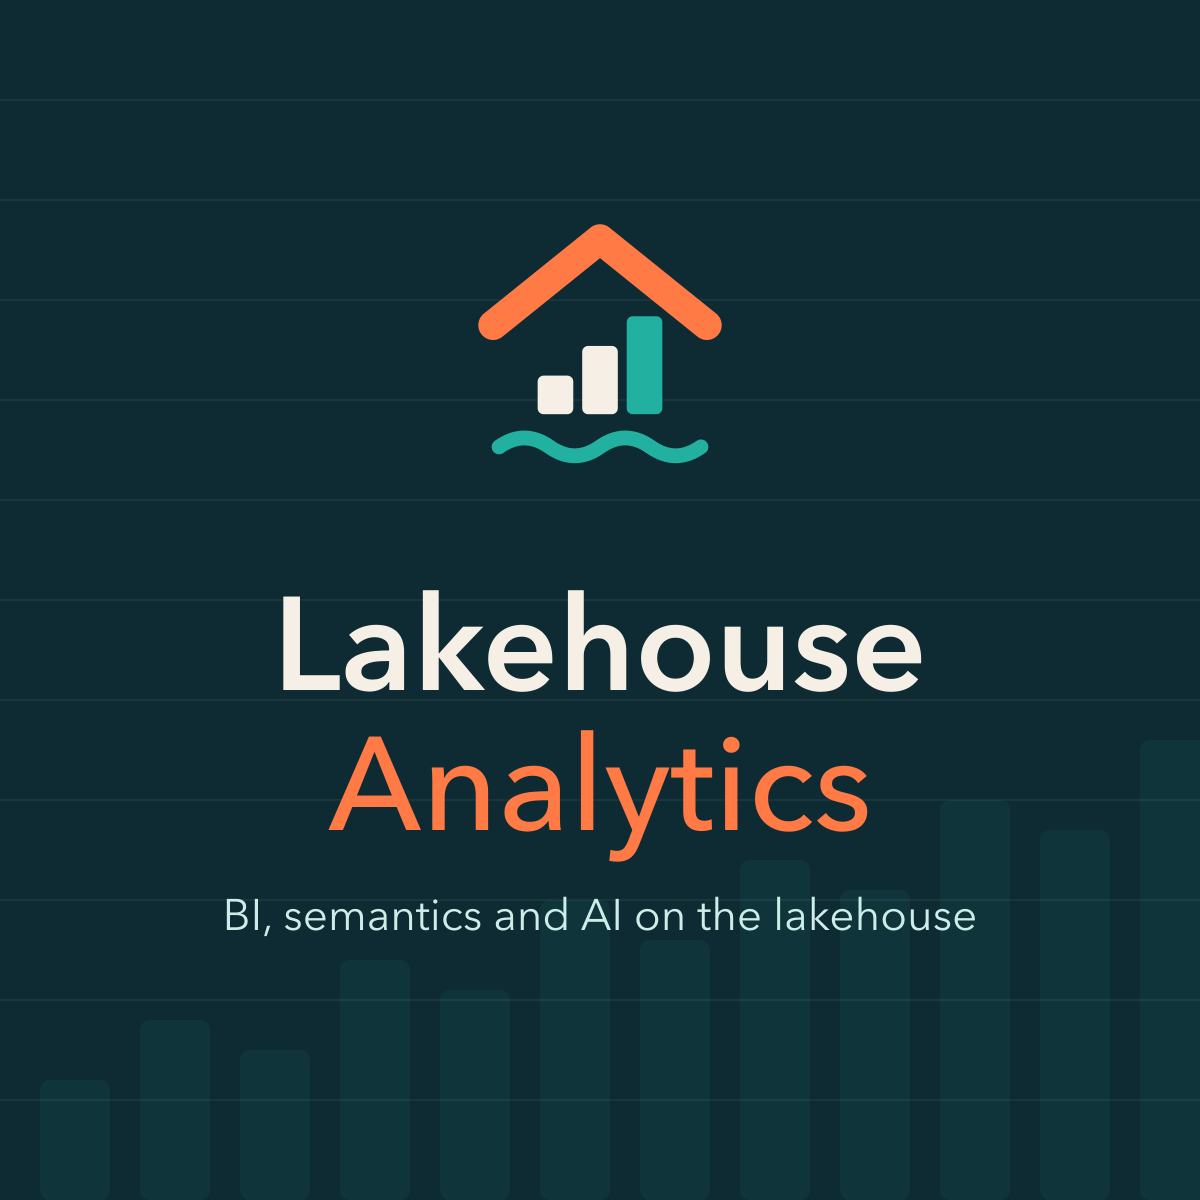
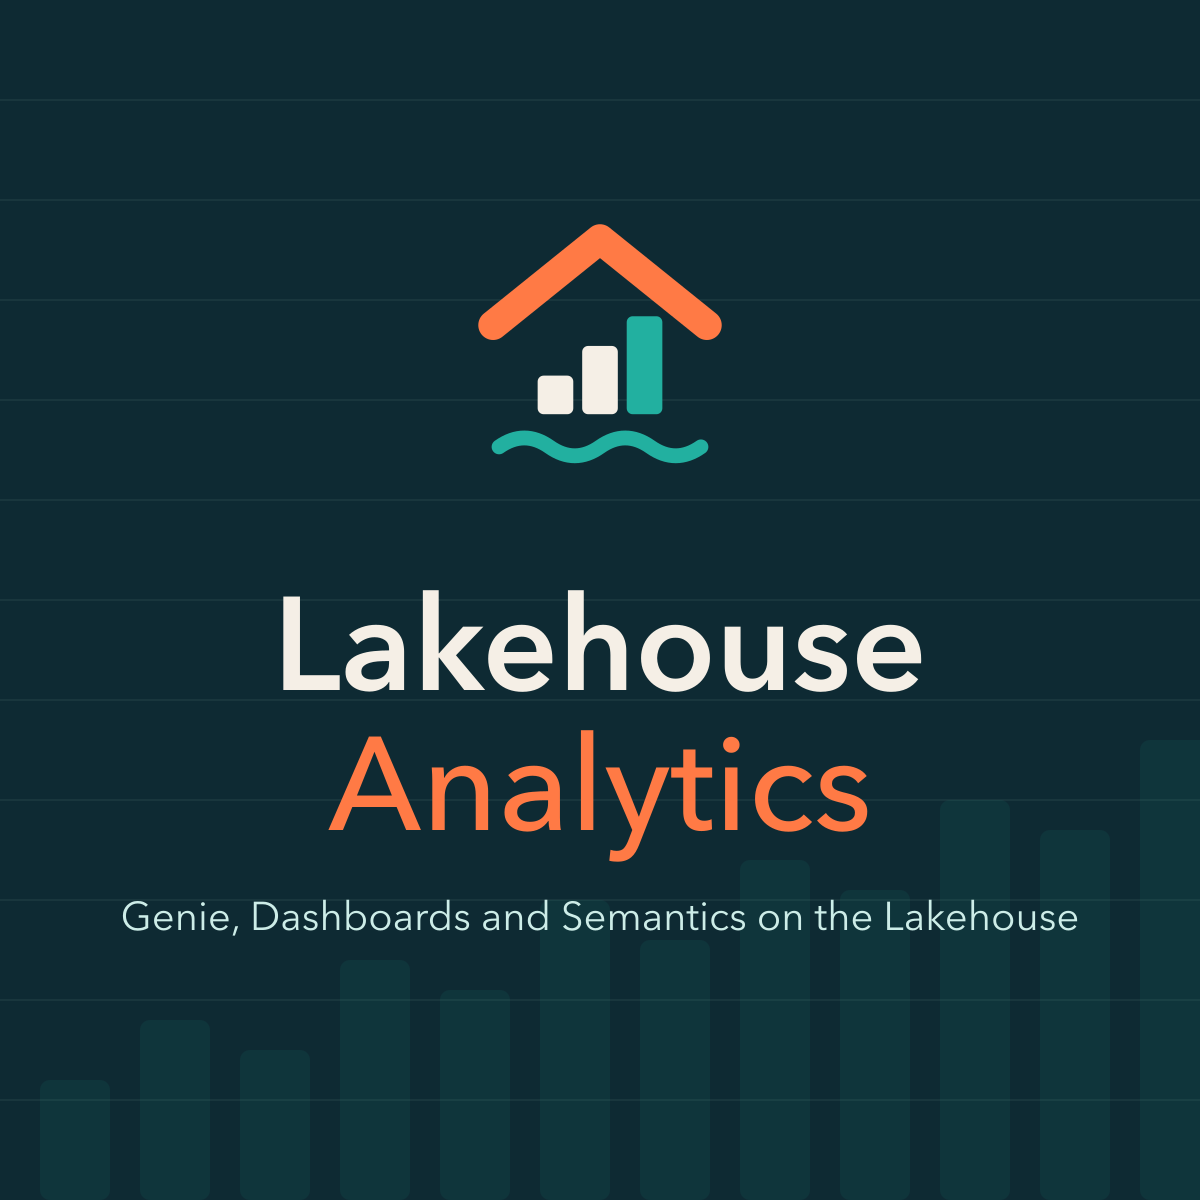
Brand: tagline Genie, Dashboards and Semantics on the Lakehouse

Changed region(s): [[0.0925, 0.74, 0.8942, 0.8017]]

diff --git a/brand/build_brand.py b/brand/build_brand.py
@@ -22,7 +22,7 @@ MIST = "#CDEDE8"
 SAND = "#F5EFE6"
 SLATE = "#5C6E75"
 
-TAGLINE = "BI, semantics and AI on the lakehouse"
+TAGLINE = "Genie, Dashboards and Semantics on the Lakehouse"
 
 
 def text_width(text, size, weight):
@@ -103,7 +103,7 @@ def build():
              + f'<text x="600" y="830" text-anchor="middle" font-family="{FONT}" '
                f'font-size="132" font-weight="500" fill="{EMBER}">Analytics</text>'
              + f'<text x="600" y="930" text-anchor="middle" font-family="{FONT}" '
-               f'font-size="44" font-weight="400" fill="{MIST}">{TAGLINE}</text>')
+               f'font-size="40" font-weight="400" fill="{MIST}">{TAGLINE}</text>')
     write("cover", svg(s, s, cover, bg=DEEP_LAKE), s)
 
     # Email banner: 1100x220 per Substack, exported at 2x.

diff --git a/brand/identity/substack-basics.md b/brand/identity/substack-basics.md
@@ -13,7 +13,7 @@ Lakehouse Analytics
 Short description (the one-liner under the name):
 
 ```text
-BI, semantics and AI on the lakehouse. Practical notes from the field, once a month.
+Genie, Dashboards and Semantics on the Lakehouse. Practical notes from the field, once a month.
 ```
 
 ## About page
